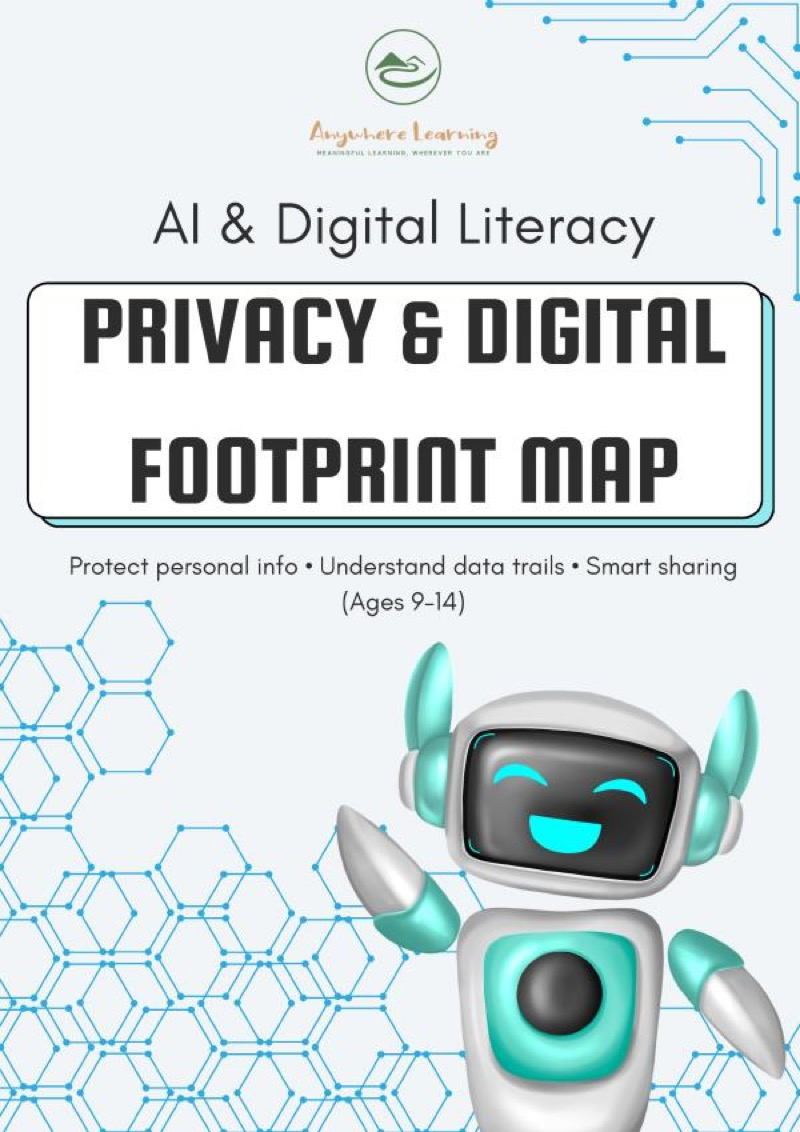
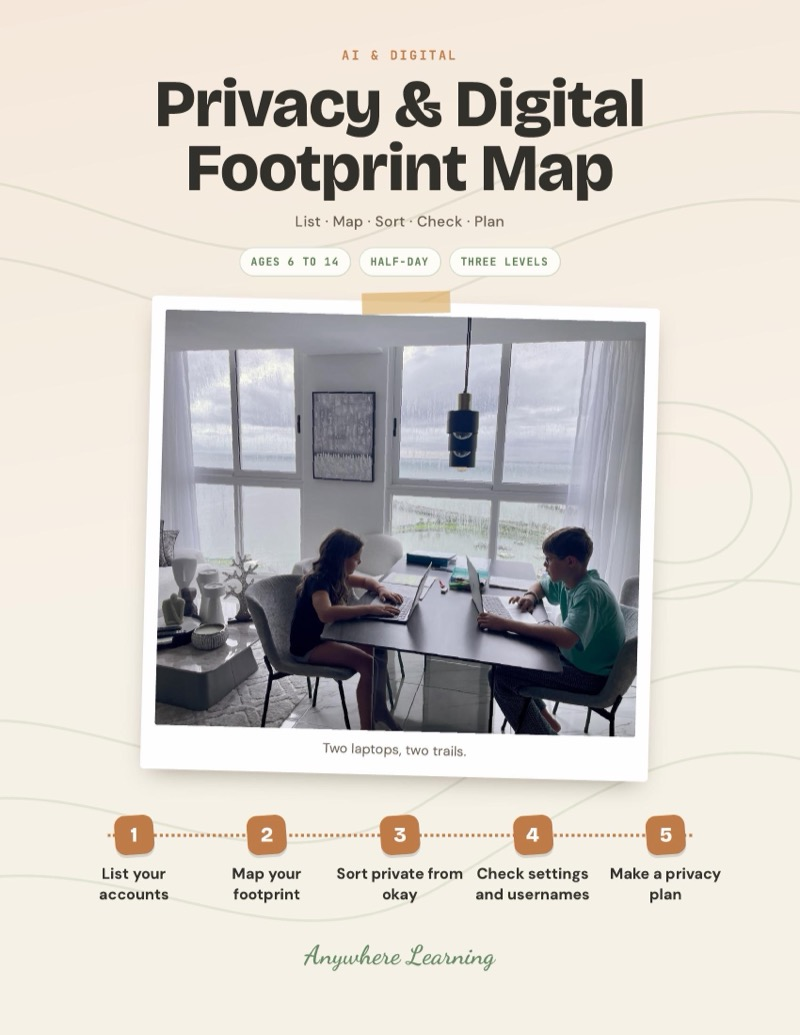
Privacy & Digital Footprint Map: redesigned guide, footprint map, private-or-okay sort, family privacy plan, two laptops photo, ages 6-14

diff --git a/scripts/seed.ts b/scripts/seed.ts
@@ -69,7 +69,7 @@ async function seed() {
     { name: 'Deepfake & Manipulation Spotter', slug: 'deepfake-spotter', description: 'Spot manipulated media and deepfakes.', shortDescription: 'Deepfake detection skills.', priceCents: 599, compareAtPriceCents: null, stripePriceId: 'price_1TFcThAMzOBftCntXZfm3eqs', blobUrl: '', imageUrl: '/products/deepfake-spotter.jpg', category: 'ai-literacy', isBundle: false, bundleProductIds: null, activityCount: null, ageRange: 'Ages 9\u201314', sortOrder: 75, active: false },
     { name: 'Hallucination Detective', slug: 'hallucination-detective', description: 'Your kid learns that AI can sound sure and still be wrong. They ask two or three AI tools the exact same question, compare the answers, spot where they disagree or make things up, check against real sources and decide on an answer of their own they can trust.', shortDescription: 'AI literacy for kids ages 6-14: ask two or three AI tools the same question, compare the answers, check real sources and catch the AI when it bluffs.', priceCents: 599, compareAtPriceCents: null, stripePriceId: 'price_1TFcThAMzOBftCnthpXo1GG3', blobUrl: '', imageUrl: '/products/hallucination-detective.jpg', category: 'ai-literacy', isBundle: false, bundleProductIds: null, activityCount: null, ageRange: 'Ages 9\u201314', sortOrder: 76, active: true },
     { name: 'Healthy Tech & AI Boundaries', slug: 'healthy-tech-boundaries', description: 'Build healthy boundaries with technology.', shortDescription: 'Healthy tech boundaries.', priceCents: 599, compareAtPriceCents: null, stripePriceId: 'price_1TFcTiAMzOBftCntLgtp68hD', blobUrl: '', imageUrl: '/products/healthy-tech-boundaries.jpg', category: 'ai-literacy', isBundle: false, bundleProductIds: null, activityCount: null, ageRange: 'Ages 9\u201314', sortOrder: 77, active: true },
-    { name: 'Privacy & Digital Footprint Map', slug: 'privacy-footprint', description: 'Understand and manage your digital footprint.', shortDescription: 'Digital privacy skills.', priceCents: 599, compareAtPriceCents: null, stripePriceId: 'price_1TFcTiAMzOBftCntrpKs7RZt', blobUrl: '', imageUrl: '/products/privacy-footprint.jpg', category: 'ai-literacy', isBundle: false, bundleProductIds: null, activityCount: null, ageRange: 'Ages 9\u201314', sortOrder: 78, active: true },
+    { name: 'Privacy & Digital Footprint Map', slug: 'privacy-footprint', description: 'Your kid finds out what information about them is online and keeps it safe. They list their accounts, map the trail they leave, sort what is private from what is okay to share, check their settings and usernames with you and make a family privacy plan for the next time something asks.', shortDescription: 'Online privacy for kids ages 6-14: map their accounts and digital footprint, sort private from okay, check usernames and settings, and make a family plan.', priceCents: 599, compareAtPriceCents: null, stripePriceId: 'price_1TFcTiAMzOBftCntrpKs7RZt', blobUrl: '', imageUrl: '/products/privacy-footprint.jpg', category: 'ai-literacy', isBundle: false, bundleProductIds: null, activityCount: null, ageRange: 'Ages 9\u201314', sortOrder: 78, active: true },
     { name: 'Prompt Like a Coach', slug: 'prompt-like-a-coach', description: 'Your kid learns to get what they actually want from AI by talking to it like a coach: a clear picture first, clear words, then one change at a time. They make something real, like the pictures for a story they wrote, and learn when to start fresh, when to rest and when good enough is good enough.', shortDescription: 'AI prompting for kids ages 6-14: picture it, describe it clearly, coach one change at a time and finish a real project, like the pictures for their own book.', priceCents: 599, compareAtPriceCents: null, stripePriceId: 'price_1TFcTjAMzOBftCntIAAq45jj', blobUrl: '', imageUrl: '/products/prompt-like-a-coach.jpg', category: 'ai-literacy', isBundle: false, bundleProductIds: null, activityCount: null, ageRange: 'Ages 9\u201314', sortOrder: 79, active: true },
 
     // === REAL-WORLD MATH - New guides (sortOrder 100-109) ===

diff --git a/lib/product-descriptions.ts b/lib/product-descriptions.ts
@@ -1463,23 +1463,24 @@ export const productDescriptions: Record<string, ProductDescription> = {
   },
   'privacy-footprint': {
     opening:
-      'Map your digital footprint and understand online privacy. Kids discover what personal data they share, how data trails work, smart sharing practices, and how to protect their personal information. Practical privacy skills every kid needs, not fear-based, just empowering.',
+      'Your kid finds out what information about them is online and keeps it safe. They list their accounts, map the trail they leave, sort what is private from what is okay to share, check their settings and usernames with you and make a family privacy plan for the next time something asks.',
     whatsIncluded: [
-      'Digital footprint mapping activities',
-      'Personal data sharing audit',
-      'How data trails work: tracking and cookies',
-      'Smart sharing practices and privacy settings',
-      'Personal privacy plan creation',
+      'Five steps, from listing accounts to a family privacy plan',
+      'My accounts, Footprint map, Private or okay?, Check it and What to do cards',
+      'A footprint map they draw themselves, with every account and photo around them',
+      'Our privacy plan to keep by the computer: stop, don\'t type it, ask a parent',
+      'Three levels per step, from ages 6 to 14',
     ],
-    skillTags: ['Privacy', 'Digital Citizenship', 'Critical Thinking', 'Self-Protection'],
+    skillTags: ['Online Safety & Privacy', 'Digital Citizenship', 'Critical Thinking', 'Decision-Making', 'Digital Literacy'],
     insideTheLearning: {
       lead:
-        'Your child maps their own digital footprint and sees the trail they have already left. What is personal, what is public, and how tracking actually works. Then they go into the settings and change them, and practise saying no when an app asks for more than it needs.',
+        'Everything you do online leaves a trail: accounts, usernames, photos, what you search. Your kid maps their own trail, sorts what stays private, checks their settings with you and practises exactly what to do the next time a game or site asks for their information.',
       skills: [
-        { skill: 'Online Safety & Privacy', where: 'Sorting personal information from public, and seeing how data trails get built' },
-        { skill: 'Critical Thinking', where: 'Thinking clearly about what sharing costs and who benefits from it' },
-        { skill: 'Decision-Making', where: 'Setting privacy settings and sharing habits deliberately' },
-        { skill: 'Digital Citizenship', where: 'Healthy boundaries online, and the confidence to advocate for their own' },
+        { skill: 'Online Safety & Privacy', where: 'Knowing what never gets shared, and what to do when asked' },
+        { skill: 'Digital Citizenship', where: 'Thinking about photos and information shared about others too' },
+        { skill: 'Critical Thinking', where: 'Spotting okay details that add up to something private' },
+        { skill: 'Decision-Making', where: 'Sorting private, ask-a-parent and fine to share' },
+        { skill: 'Digital Literacy', where: 'Checking usernames, profiles and message settings' },
       ],
     },
     format: 'Project Guide',

diff --git a/lib/skills.ts b/lib/skills.ts
@@ -96,7 +96,7 @@ export const productSkills: Record<string, ProductSkills> = {
   "party-planner-math": { canonical: ["Multiplication","Budgeting","Estimation","Planning","Division"], families: ["entrepreneurship-and-money","math-and-money"] },
   "people-stories-interview": { canonical: ["Communication","Confidence","Cultural Awareness","Empathy","Listening"], families: ["communication-and-writing","empathy-and-people","planning-and-self-management","world-and-geography"] },
   "pricing-experiment": { canonical: ["Financial Literacy","Math","Experimentation","Critical Thinking","Decision-Making"], families: ["communication-and-writing","critical-thinking-and-reasoning","entrepreneurship-and-money","math-and-money"] },
-  "privacy-footprint": { canonical: ["Critical Thinking","Decision-Making","Digital Citizenship","Online Safety & Privacy"], families: ["critical-thinking-and-reasoning","tech-and-digital"] },
+  "privacy-footprint": { canonical: ["Online Safety & Privacy","Digital Citizenship","Critical Thinking","Decision-Making"], families: ["tech-and-digital","critical-thinking-and-reasoning"] },
   "problem-solver": { canonical: ["Problem-Solving","Critical Thinking","Creativity","Testing","Independence"], families: ["communication-and-writing","critical-thinking-and-reasoning","planning-and-self-management"] },
   "product-design-lab": { canonical: ["Communication","Creative Thinking","Critical Thinking","Design Thinking","Executive Functioning"], families: ["communication-and-writing","creativity-and-making","critical-thinking-and-reasoning","planning-and-self-management"] },
   "prompt-like-a-coach": { canonical: ["AI Literacy","Writing","Communication","Creative Thinking"], families: ["tech-and-digital","communication-and-writing","creativity-and-making"] },

diff --git a/lib/fallback-products.ts b/lib/fallback-products.ts
@@ -996,20 +996,20 @@ export const fallbackProducts: FallbackProduct[] = [
     name: "Privacy & Digital Footprint Map",
     slug: "privacy-footprint",
     description:
-      "Map your digital footprint and understand online privacy. Kids discover what personal data they share, how data trails work, smart sharing practices, and how to protect their personal information. Practical privacy education, not paranoia.",
+      "Your kid finds out what information about them is online and keeps it safe. They list their accounts, map the trail they leave, sort what is private from what is okay to share, check their settings and usernames with you and make a family privacy plan for the next time something asks.",
     shortDescription:
-      "Digital literacy for kids ages 9-14: map your digital footprint, understand data privacy, and share smart online.",
+      "Online privacy for kids ages 6-14: map their accounts and digital footprint, sort private from okay, check usernames and settings, and make a family plan.",
     priceCents: 599,
     compareAtPriceCents: null,
     stripePriceId: "price_1TLrqAAkIBECpwGmWbsd0ZbP",
     blobUrl: "",
-    imageUrl: "/products/privacy-footprint.jpg",
-    previewFile: "Preview AI + Digital Literacy - PRIVACY & DIGITAL FOOTPRINT MAP.pdf",
+    imageUrl: "/products/privacy-footprint.jpg?v=2",
+    previewFile: "Preview AI & Digital Literacy - PRIVACY & DIGITAL FOOTPRINT MAP v3.pdf",
     category: "ai-literacy",
     isBundle: false,
     bundleProductIds: null,
     activityCount: null,
-    ageRange: "Ages 9–14",
+    ageRange: "Ages 6–14",
     sortOrder: 78,
     active: true,
     createdAt: new Date("2025-03-01"),

diff --git a/scripts/create-stripe-products.ts b/scripts/create-stripe-products.ts
@@ -56,7 +56,7 @@ const catalog = [
   { slug: 'deepfake-spotter', name: 'Deepfake & Manipulation Spotter', priceCents: 599, description: 'Spot manipulated media and understand deepfake technology.' },
   { slug: 'hallucination-detective', name: 'Hallucination Detective', priceCents: 599, description: 'AI literacy for kids ages 6-14: ask two or three AI tools the same question, compare the answers, check real sources and catch the AI when it bluffs.' },
   { slug: 'healthy-tech-boundaries', name: 'Healthy Tech & AI Boundaries', priceCents: 599, description: 'Build healthy boundaries with technology and AI tools.' },
-  { slug: 'privacy-footprint', name: 'Privacy & Digital Footprint Map', priceCents: 599, description: 'Understand and manage your digital footprint and privacy.' },
+  { slug: 'privacy-footprint', name: 'Privacy & Digital Footprint Map', priceCents: 599, description: 'Online privacy for kids ages 6-14: map their accounts and digital footprint, sort private from okay, check usernames and settings, and make a family plan.' },
   { slug: 'prompt-like-a-coach', name: 'Prompt Like a Coach', priceCents: 599, description: 'AI prompting for kids ages 6-14: picture it, describe it clearly, coach one change at a time and finish a real project, like the pictures for their own book.' },
   // ─── Real-World Math singles ($4.99) ───
   { slug: 'backyard-campout-planner', name: 'Backyard Campout Planner', priceCents: 599, description: 'Real-world math for kids ages 6-14: measure the site, budget the gear, plan the food and the schedule, then camp out.' },

diff --git a/lib/activity-blob-urls.ts b/lib/activity-blob-urls.ts
@@ -96,7 +96,7 @@ export const ACTIVITY_BLOB_URLS: Record<string, string> = {
   "plan-a-mini-adventure": "https://xkj3tzlgu6ylgllk.public.blob.vercel-storage.com/Planning%20%26%20Problem-Solving%20Plan%20a%20Mini%20Adventure%20v2.pdf",
   "play-the-world": "https://xkj3tzlgu6ylgllk.public.blob.vercel-storage.com/Worldschooling%20-%20Play%20The%20World%20v5.pdf",
   "pricing-experiment": "https://xkj3tzlgu6ylgllk.public.blob.vercel-storage.com/Entrepreneurship%20-%20Pricing%20Experiment%20v9.pdf",
-  "privacy-footprint": "https://xkj3tzlgu6ylgllk.public.blob.vercel-storage.com/AI%20%26%20Digital%20Literacy%20-%20PRIVACY%20%26%20DIGITAL%20FOOTPRINT%20MAP%20v2.pdf",
+  "privacy-footprint": "https://xkj3tzlgu6ylgllk.public.blob.vercel-storage.com/AI%20%26%20Digital%20Literacy%20-%20PRIVACY%20%26%20DIGITAL%20FOOTPRINT%20MAP%20v3.pdf",
   "probability-lab": "https://xkj3tzlgu6ylgllk.public.blob.vercel-storage.com/Real-world%20math%20-%20The%20Probability%20Lab%20v7.pdf",
   "problem-solver": "https://xkj3tzlgu6ylgllk.public.blob.vercel-storage.com/Planning%20%26%20Problem-Solving%20Problem-Solver%20Studio%20v9.pdf",
   "product-design-lab": "https://xkj3tzlgu6ylgllk.public.blob.vercel-storage.com/Entrepreneurship%20-%20Product%20Design%20Lab%20v2.pdf",
